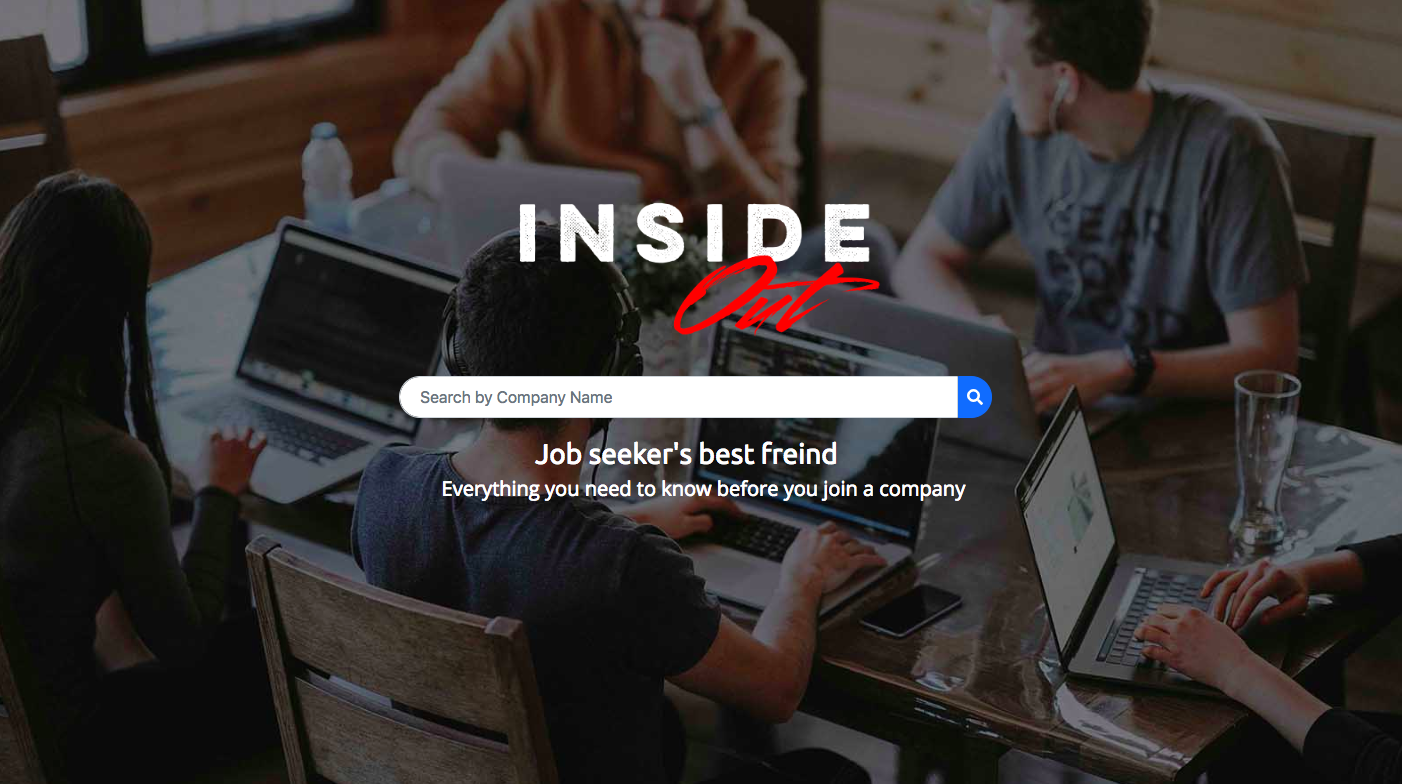
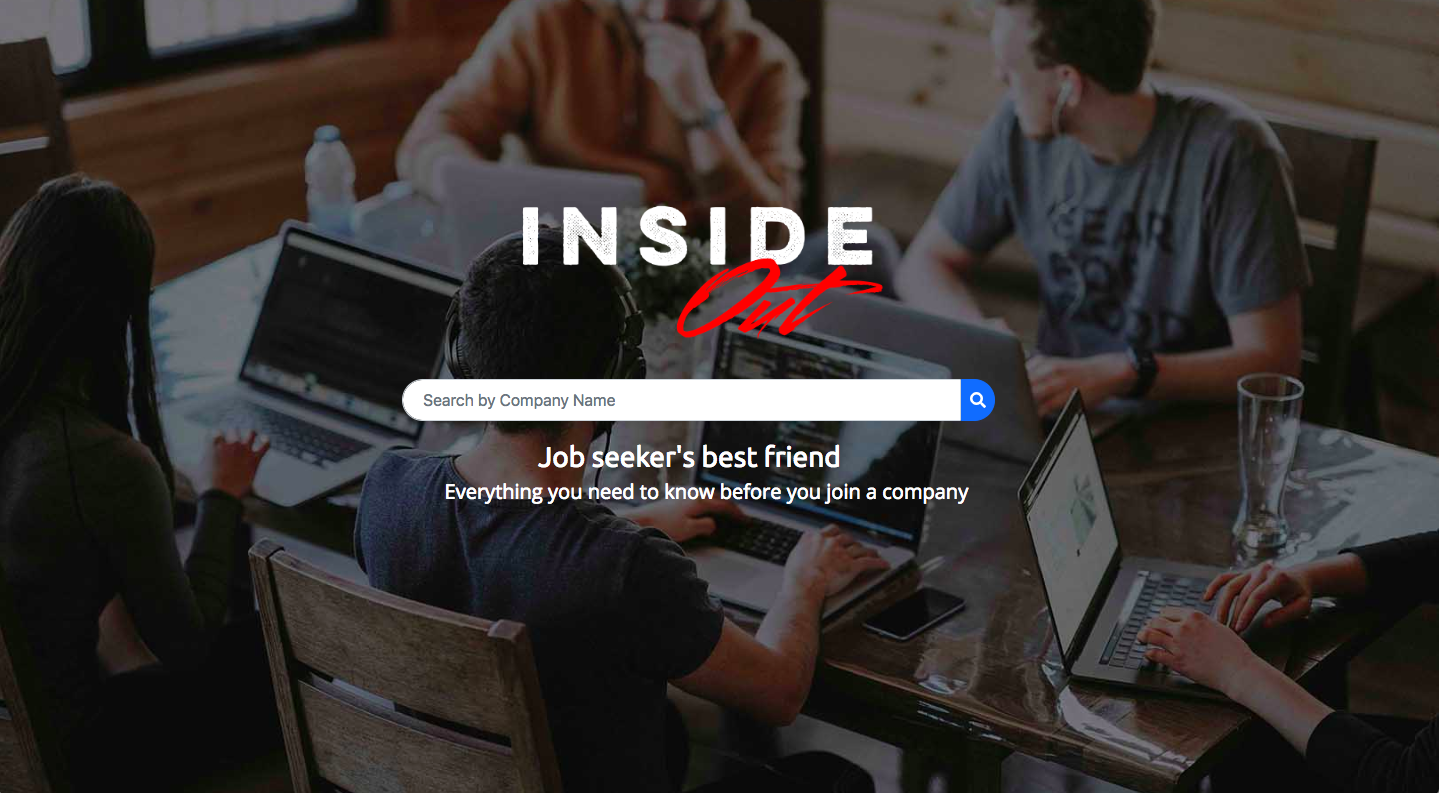
Change homepage img for read me

diff --git a/templates/home.html b/templates/home.html
@@ -24,7 +24,7 @@
                 </button>
             </span>   
             </form>
-            <h3> Job seeker's best freind </h3>
+            <h3> Job seeker's best friend </h3>
             <h5> Everything you need to know before you join a company </h5>
         </div>
         <div class="col-md-3"></div>

diff --git a/server.py b/server.py
@@ -332,7 +332,7 @@ def create_interest_ranking_view(industry_name):
 if __name__ == "__main__":
     # We have to set debug=True here, since it has to be True at the
     # point that we invoke the DebugToolbarExtension
-    app.debug = True
+    app.debug = False
     # make sure templates, etc. are not cached in debug mode
     app.jinja_env.auto_reload = app.debug
 
